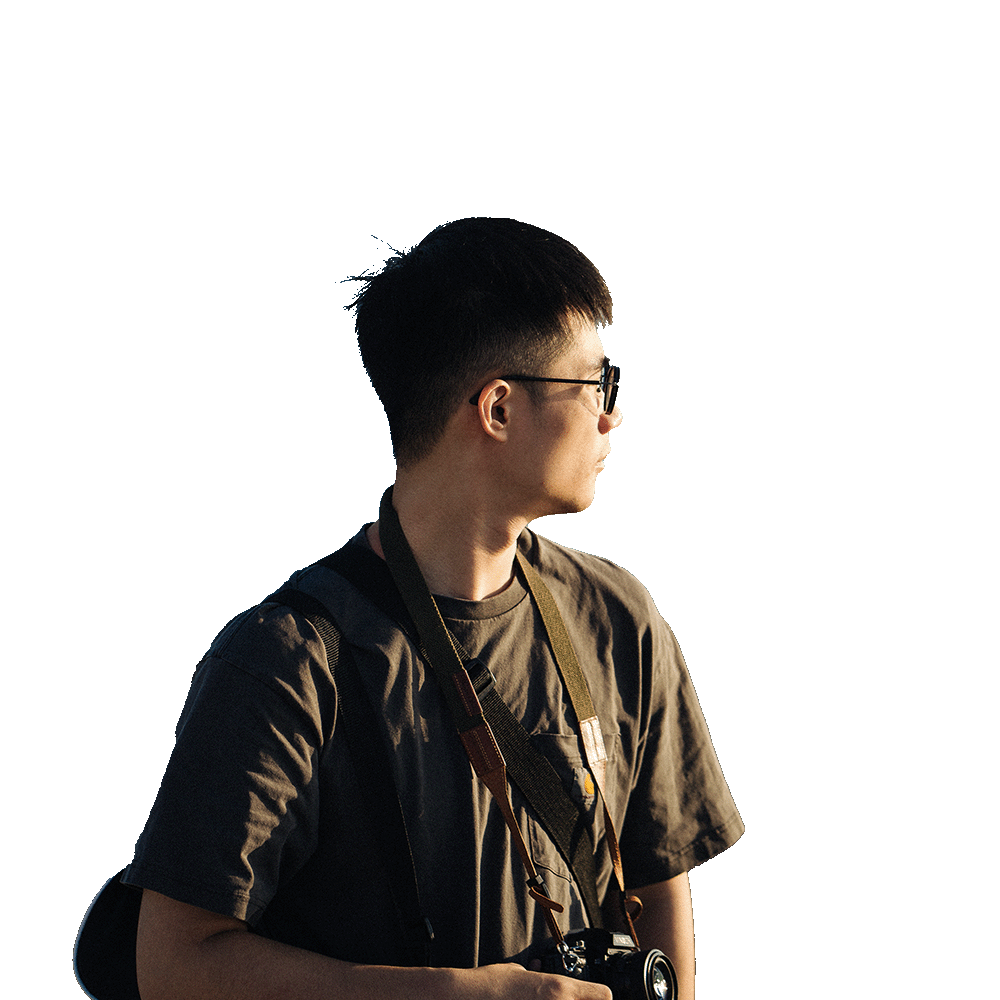
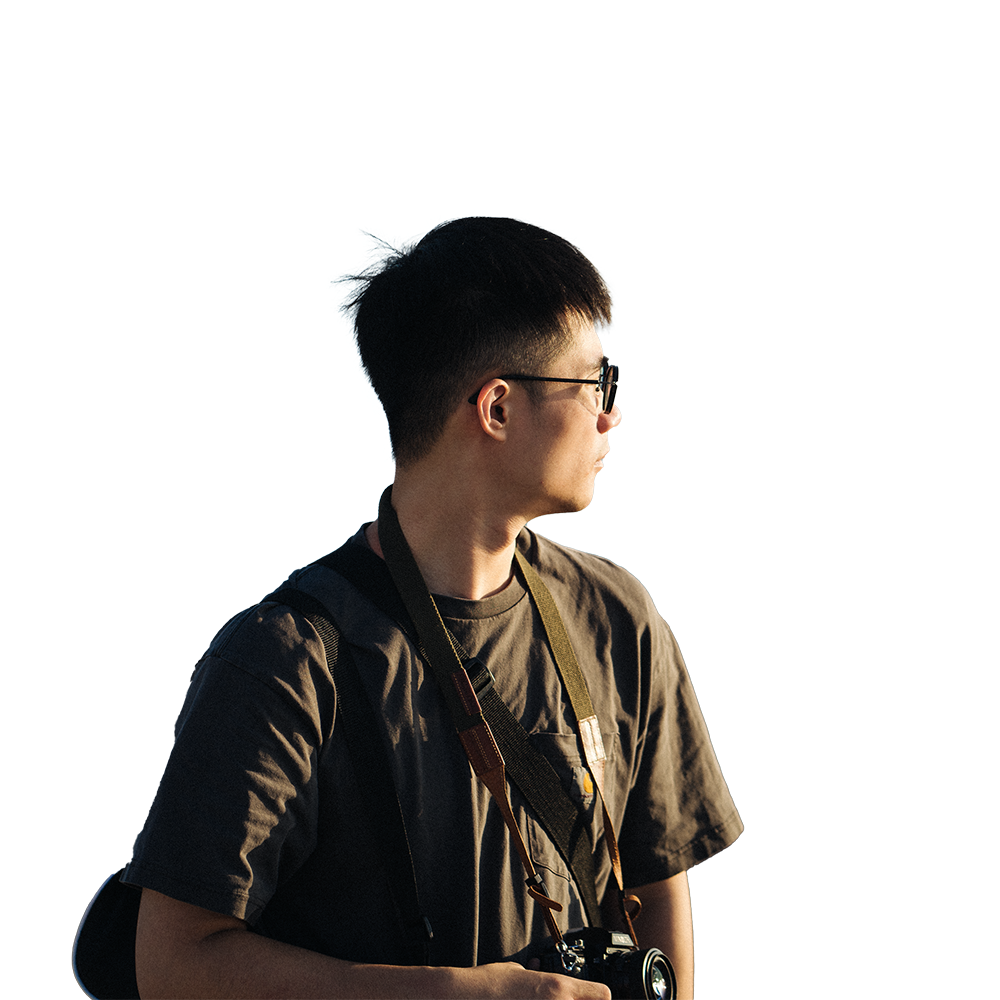
[ CSS ] HeroImg

diff --git a/src/views/AboutPage.vue b/src/views/AboutPage.vue
@@ -85,7 +85,7 @@ onMounted(() => {
         });
         gsap.utils.toArray(".introparallax").forEach((layer) => {
             const depth = layer.dataset.depth;
-            const movement = depth * -4;
+            const movement = depth * -5;
             gsap.to(layer, {
                 yPercent: movement,
                 ease: "none",
@@ -93,7 +93,7 @@ onMounted(() => {
                     trigger: ".about-intro",
                     start: "clamp(top center)",
                     end: "clamp(bottom center)",
-                    scrub: 0.5,
+                    scrub: 0.75,
                     // markers: true,
                 },
             }); // scale from 1.3
@@ -260,9 +260,9 @@ const loadingLeave = (el, done) => {
 };
 const heroMotion = () => {
     const herotl = gsap.timeline({ defaults: { ease: "back.inOut(1.7)", duration: 0.8 } });
-    herotl.fromTo(".user-container", { clipPath: "inset(50% 0% 50% 0% round 12% 0%)" }, { clipPath: "inset(0% 0% 0% 0% round 12% 0%)", duration: 3, ease: "power4.out" }, 0.5);
-    herotl.from(".profile-img-1 ", { scale: 2.2, duration: 3.5, filter: "blur(20px)", ease: "power4.out" }, 0.5);
-    herotl.from(".profile-img-2 ", { scale: 1.6, duration: 3.5, filter: "blur(10px)", ease: "power4.out" }, 0.5);
+    herotl.fromTo(".profile-container", { clipPath: "inset(50% 0% 50% 0% round 6% 0%)" }, { clipPath: "inset(0% 0% 0% 0% round 12% 0%)", duration: 3, ease: "power4.out" }, 0.5);
+    herotl.from("#profile-img-1 ", { scale: 2.2, duration: 3.5, filter: "blur(20px)", ease: "power4.out" }, 0.5);
+    herotl.from("#profile-img-2 ", { scale: 1.6, duration: 3.5, filter: "blur(10px)", ease: "power4.out" }, 0.5);
     herotl.from("#hero-hello", { opacity: 0, yPercent: 150, rotationX: 90, stagger: 0.25 }, 0.9);
     herotl.from("#hero-name", { opacity: 0, yPercent: 150, rotationX: 90, rotationZ: 10, stagger: 0.1 }, 1.4);
     herotl.from("#hero-detail", { opacity: 0, yPercent: 20, ease: "power4.inOut", duration: 1.35, stagger: 0.4 }, 1.7);
@@ -287,18 +287,18 @@ const heroMotion = () => {
     <main class="bg-main-black" ref="imgContainer">
         <div class="about-herointro duration-500" :class="{'bg-stone-100':!store.navbardarkmode, 'bg-main-black': store.navbardarkmode }">
             <!-- Hero -->
-            <section class="about-hero d-flex-center h-svh flex-wrap px-3 pt-5 xl:h-screen xl:px-16 xl:py-12">
+            <section class="about-hero d-flex-center h-svh flex-wrap px-3 pt-5 xl:h-screen xl:px-16 xl:py-12 xl:mb-0 mb-12">
                 <!-- profile image -->
-                <div class="d-flex-center mt-16 pl-4 pr-4 xl:mt-0 2xl:w-1/2">
-                    <div class="user-container parallax relative max-h-[600px] overflow-hidden" data-depth="2" data-scale="1.2">
-                        <figure class="profile-img-1 absolute top-[8%] z-20 scale-[1.35] blur-none">
-                            <div class="parallax heroRot" data-depth="1.05" data-scale="1.05">
-                                <img class="lazy left-0 h-auto w-full object-cover" alt="profile_image" :src="profileImage1" />
+                <div class="d-flex-center mt-16 pl-4 pr-4 xl:mt-0 2xl:w-1/2 xl:mb-0 mb-5">
+                    <div class="profile-container parallax relative max-h-[600px] overflow-hidden" data-depth="2" data-scale="1.2">
+                        <figure class="absolute z-20 scale-[1.2] blur-none h-full" id="profile-img-1">
+                            <div class="parallax heroRot h-full" data-depth="1.05" data-scale="1.05">
+                                <img class="lazy aspect-3/2 h-full object-cover" alt="profile_image" :src="profileImage1" />
                             </div>
                         </figure>
-                        <figure class="profile-img-2 absolute top-[8%] z-10 scale-[1.35] blur-none">
-                            <div class="parallax heroRot" data-depth="3.2" data-scale="1.15">
-                                <img class="lazy left-0 h-auto w-full object-cover" alt="profile_image" :src="profileImage2" />
+                        <figure class="absolute z-10 scale-[1.2] blur-none h-full" id="profile-img-2">
+                            <div class="parallax heroRot h-full" data-depth="3.2" data-scale="1.15">
+                                <img class="lazy aspect-3/2 h-full object-cover" alt="profile_image" :src="profileImage2" />
                             </div>
                         </figure>
                     </div>
@@ -387,6 +387,11 @@ const heroMotion = () => {
                         </div>
                         <!-- Intro -->
                         <div class="mb-12 flex h-full max-w-2xl pl-0 lg:mb-0 xl:pl-12 4xl:pr-5">
+                            <!-- <div class="absolute right-5 -top-10">
+                                <svg class="icon-gear size-32 fill-main-orange">
+                                    <use xlink:href="#icon-gear"></use>
+                                </svg>
+                            </div> -->
                             <div class="">
                                 <h2 class="intro-title2 mb-8 inline-block overflow-hidden xl:mb-16">
                                     <span v-for="(text, index) in splitText(ExpData.about.para2.title)" :key="index" class="inline-flex pe-2 xl:pe-4">
@@ -459,17 +464,37 @@ const heroMotion = () => {
         display: flex;
         justify-content: center !important;
     }
-    .user-container {
+    .profile-container {
         width: 35vmax !important;
         min-height: 40vmax !important;
     }
 }
+
+@keyframes rotation {
+    from {
+        transform: rotate(0deg);
+    }
+    to {
+        transform: rotate(360deg);
+    }
+}
+
+@keyframes gearRotation {
+    from {
+        transform: rotate(0deg);
+    }
+    to {
+        transform: rotate(25deg);
+    }
+}
+.icon-gear{
+    /* animation: gearRotation 1s cubic-bezier(0.075, 0.82, 0.165, 1) infinite; */
+    animation: rotation 5s linear infinite;
+}
 /*------ Img --------*/
-.user-container {
+.profile-container {
     width: 48vmin;
     min-height: 56vmin;
-    /* width: 40vmin;
-    min-height: 48vmin; */
     clip-path: inset(0% 0% 0% 0% round 12% 0%);
     -webkit-clip-path: inset(0 0% 0 0 round 12% 0%);
 }

diff --git a/src/App.vue b/src/App.vue
@@ -24,6 +24,15 @@ import Navbar from './components/NavbarItem.vue';
         <path d="m74.22,6.16h3.69l4.13,7.09h.04v-7.09h3.56v12.61h-3.81l-4-7.14h-.04v7.14h-3.56V6.16Z" shape-rendering="geometricPrecision"/>
         <path d="m95.68,17.43h-.04c-.79,1.15-2.08,1.64-3.62,1.64-1.69,0-3.14-.58-4.16-1.68-1.16-1.23-1.75-2.93-1.75-4.89,0-3.72,2.36-6.58,6.26-6.58,3.3,0,5.38,1.71,5.78,4.52h-3.56c-.19-.81-.95-1.48-2.08-1.48-1.76,0-2.66,1.48-2.66,3.55s1.02,3.6,2.8,3.6c1.34,0,1.99-.72,2.22-1.57h-1.68v-2.61h5.2v6.84h-2.45l-.28-1.34Z" shape-rendering="geometricPrecision"/>
     </symbol>
+    <symbol id="icon-gear" viewBox="0 0 400 400">
+        <path class="st0" d="M225.91,377.22L225.91,377.22c-12.47-18.21-39.34-18.21-51.82,0l0,0c-17.7,25.84-58.17,12.69-57.3-18.62l0,0
+        c0.61-22.06-21.13-37.85-41.92-30.46l0,0c-29.5,10.5-54.52-23.93-35.41-48.74l0,0c13.46-17.49,5.16-43.04-16.01-49.28l0,0
+        c-30.04-8.85-30.04-51.4,0-60.25l0,0c21.17-6.24,29.47-31.79,16.01-49.28l0,0c-19.1-24.82,5.91-59.24,35.41-48.74l0,0
+        c20.79,7.4,42.53-8.39,41.92-30.46l0,0c-0.87-31.3,39.6-44.45,57.3-18.62l0,0c12.47,18.21,39.34,18.21,51.82,0l0,0
+        c17.7-25.84,58.17-12.69,57.3,18.62v0c-0.61,22.06,21.13,37.85,41.92,30.46l0,0c29.5-10.5,54.52,23.93,35.41,48.74l0,0
+        c-13.46,17.49-5.16,43.04,16.01,49.28l0,0c30.04,8.85,30.04,51.4,0,60.25l0,0c-21.17,6.24-29.47,31.79-16.01,49.28l0,0
+        c19.1,24.82-5.91,59.24-35.41,48.74l0,0c-20.79-7.4-42.53,8.39-41.92,30.46v0C284.08,389.91,243.61,403.06,225.91,377.22z"/>
+    </symbol>
     <symbol id="icon-arrowxl" viewBox="0 0 400 400">
         <path d="M397.44,196.63c-1.74,0-3.46,0.03-5.17,0.09c-72.58-1.25-119.58-50.06-139.8-71.07l-0.7-0.73l-5.33,5.13l0.7,0.73
 	c16.21,16.84,49.09,51,98.43,66.01H2.72v7.4h344.52c-48.97,15.11-81.64,49.04-97.78,65.81l-0.7,0.73l5.33,5.13l0.7-0.73

diff --git a/tailwind.config.js b/tailwind.config.js
@@ -27,6 +27,7 @@ module.exports = {
         'back': 'cubic-bezier(.81,.56,.54,1.36)',
       },
       aspectRatio: {
+        '3/2': '3 / 2',
         '4/3': '4 / 3',
         '16/9': '16 / 9',
       },
